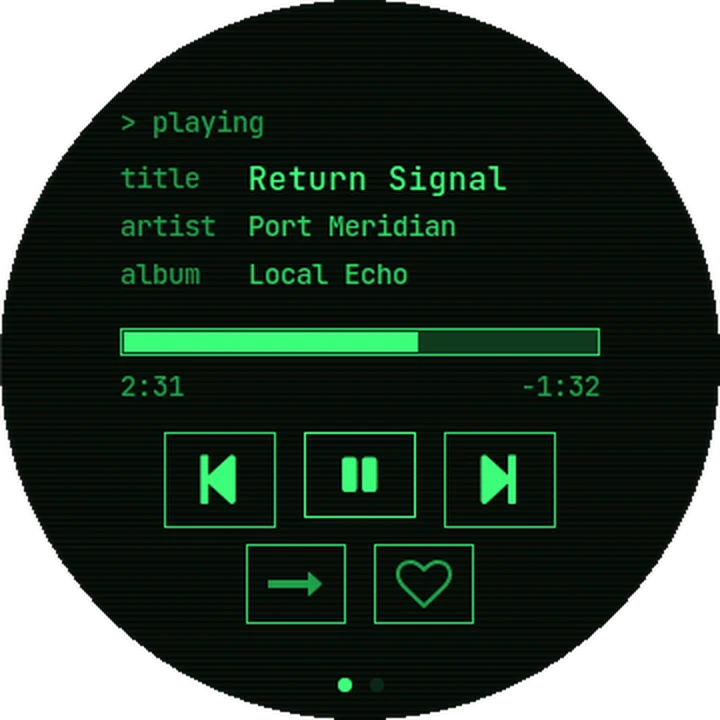
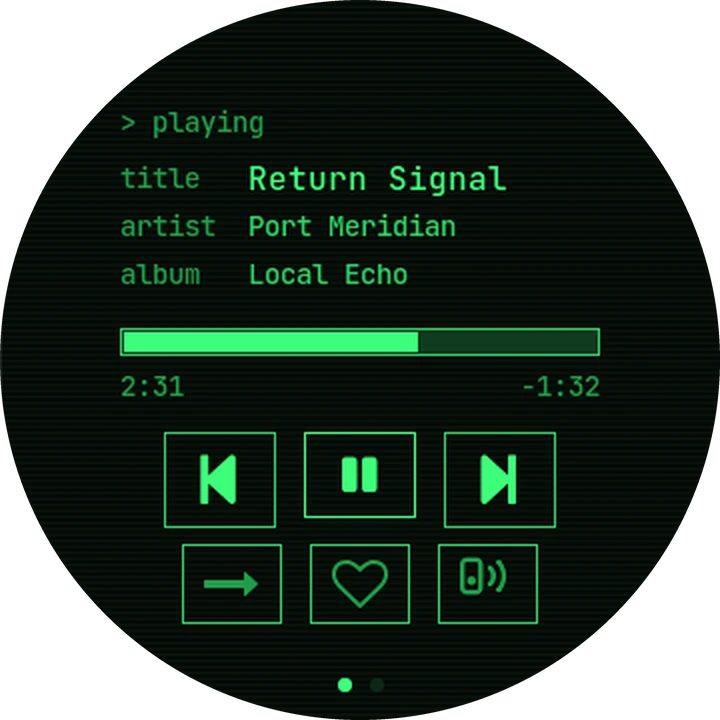
Website: lead with Beam, show it on Now Playing and Quick Settings, add the Beam and AirPlay Receiving tour images and a Ko-fi link

diff --git a/site/index.html b/site/index.html
@@ -4,7 +4,7 @@
 <meta charset="utf-8">
 <meta name="viewport" content="width=device-width, initial-scale=1">
 <title>diskOS - Made round, from the centre out</title>
-<meta name="description" content="diskOS is a free, open-source interface for the FiiO Snowsky Disc, made for its round screen. Eight themes, Cover Flow, timed lyrics, audiobooks, search, and Beam to Cast and AirPlay speakers and TVs.">
+<meta name="description" content="diskOS is a free, open-source interface for the FiiO Snowsky Disc, made for its round screen. Beam your music to Cast and AirPlay speakers and TVs, with eight themes, Cover Flow, timed lyrics, audiobooks and search.">
 <meta name="color-scheme" content="dark">
 <meta name="theme-color" content="#050506">
 <link rel="canonical" href="https://b0hemia.github.io/diskos/">
@@ -12,7 +12,7 @@
 <meta property="og:site_name" content="diskOS">
 <meta property="og:url" content="https://b0hemia.github.io/diskos/">
 <meta property="og:title" content="diskOS - Made round, from the centre out">
-<meta property="og:description" content="A free, open-source interface for the FiiO Snowsky Disc, made for its round screen. Eight themes, Cover Flow, timed lyrics, audiobooks, search, and Beam to Cast and AirPlay speakers and TVs.">
+<meta property="og:description" content="A free, open-source interface for the FiiO Snowsky Disc, made for its round screen. Beam your music to Cast and AirPlay speakers and TVs, with eight themes, Cover Flow, timed lyrics, audiobooks and search.">
 <meta property="og:image" content="https://b0hemia.github.io/diskos/img/og-hero.png">
 <meta property="og:image:width" content="1200">
 <meta property="og:image:height" content="630">
@@ -148,7 +148,7 @@ ONE STORY, FOUR ACTS, ONE LIGHT.
       <div class="copy hero-copy">
         <p class="kicker"><span class="brand">diskOS</span> for the FiiO Snowsky Disc</p>
         <h1 id="hero-title"><span class="ln">Made round,</span> <span class="ln">from the centre out.</span></h1>
-        <p class="lede">A new face for the FiiO Snowsky Disc, made for its round screen. Your music sits in the middle of the circle.</p>
+        <p class="lede">A new face for the FiiO Snowsky Disc, made for its round screen. Your music sits in the middle of the circle, and Beam sends it to the Cast and AirPlay speakers and TVs in your home.</p>
         <div class="actions"><a class="btn" href="https://github.com/b0hemia/diskos#install">Get diskOS</a><a class="link" href="#tracklist">Read the tracklist</a></div>
         <p class="fine">Free and open source. Install from Linux x86-64, macOS on Apple Silicon or Windows 10/11 x64. Flashing takes about 20 minutes. Choose the stock interface for the next boot in Settings &gt; Device &gt; Default UI.</p>
       </div>
@@ -166,55 +166,55 @@ ONE STORY, FOUR ACTS, ONE LIGHT.
         <p class="tl-lede">Each one made for the circle. Scroll, and the disc plays them in order.</p>
       </div>
       <ol class="tracks">
-        <li data-img="home-default-dark"><div class="tr">
-          <span class="no">01</span>
-          <img class="thumb" src="img/home-default-dark.webp" alt="Home in halo: the time, date and weather above the current song, with progress around the now-playing island" width="720" height="720" loading="lazy">
-          <div class="tx"><h3>Home</h3><p>The time, the date and your song, at a glance. In halo, the border around your song fills as it plays.</p></div>
-        </div></li>
-        <li data-img="tour-library"><div class="tr">
-          <span class="no">02</span>
-          <img class="thumb" src="img/tour-library.webp" alt="Library: Songs, Albums, Artists, Genres and Playlists" width="720" height="720" loading="lazy">
-          <div class="tx"><h3>Library</h3><p>A big library, one thumb. Run your finger around the rim to fly through a long list, or tap A-Z and land on the letter you want.</p></div>
-        </div></li>
-        <li data-img="tour-cover-flow"><div class="tr">
-          <span class="no">03</span>
-          <img class="thumb" src="img/tour-cover-flow.webp" alt="Cover Flow with After Hours Test by Caldera Lines in the centre" width="720" height="720" loading="lazy">
-          <div class="tx"><h3>Cover Flow</h3><p>Some albums you know by their cover before you know their name. Flip through the artwork, tap the one in the middle to open it, or hold it to play.</p></div>
-        </div></li>
-        <li data-img="tour-search"><div class="tr">
-          <span class="no">04</span>
-          <img class="thumb" src="img/tour-search.webp" alt="Search: the word Between finds Between Tides by Iona Relay" width="720" height="720" loading="lazy">
-          <div class="tx"><h3>Search</h3><p>Remember one word of the title? Search by song, artist or album from Home or Quick Settings, and play what you find.</p></div>
-        </div></li>
-        <li data-img="np-default-dark"><div class="tr">
-          <span class="no">05</span>
-          <img class="thumb" src="img/np-default-dark.webp" alt="Now Playing in halo: Between Tides by Iona Relay inside the round seek ring" width="720" height="720" loading="lazy">
-          <div class="tx"><h3>Now Playing</h3><p>Playback controls and your place in the song, together on the round screen. Play, pause, skip and seek without leaving the screen.</p></div>
-        </div></li>
-        <li data-img="tour-lyrics-timed"><div class="tr">
-          <span class="no">06</span>
-          <img class="thumb" src="img/tour-lyrics-timed.webp" alt="Timed lyrics with the current line lit" width="720" height="720" loading="lazy">
-          <div class="tx"><h3>Timed lyrics</h3><p>Sing along. Timed lyrics follow the song, and the line you are on lights up. Lyrics beside the song or inside it work offline; missing words can be looked up over Wi-Fi.</p></div>
-        </div></li>
-        <li data-img="feat-book-playing-dark"><div class="tr">
-          <span class="no">07</span>
-          <img class="thumb" src="img/feat-book-playing-dark.webp" alt="An audiobook playing, with buttons to skip back 15 seconds and forward 30" width="720" height="720" loading="lazy">
-          <div class="tx"><h3>Audiobooks</h3><p>.m4b audiobooks get their own home in Library &gt; Books. Jump between chapters and pick up at your saved position.</p></div>
-        </div></li>
-        <li data-img="tour-quick-settings"><div class="tr">
-          <span class="no">08</span>
-          <img class="thumb" src="img/tour-quick-settings.webp" alt="Quick Settings with Wi-Fi, Bluetooth, EQ, Search, Rescan and Source tiles" width="720" height="720" loading="lazy">
-          <div class="tx"><h3>Quick Settings</h3><p>Pull down from the top edge: brightness, Wi-Fi, Bluetooth and EQ, together in one place. Add a Beam tile to send the music to a speaker or TV. Change what you need and get straight back to listening.</p></div>
-        </div></li>
         <li data-img="tour-beam"><div class="tr">
-          <span class="no">09</span>
+          <span class="no">01</span>
           <img class="thumb" src="img/tour-beam.webp" alt="The Beam picker listing a Cast speaker and an AirPlay TV, each tagged with its type" width="720" height="720" loading="lazy">
           <div class="tx"><h3>Beam</h3><p>Send what is playing to a speaker or TV on your Wi-Fi. Pick a Cast or AirPlay device, enter the PIN if the TV asks for one, and the Disc's controls and volume drive that device while it plays.</p></div>
         </div></li>
         <li data-img="tour-airplay-receiving"><div class="tr">
-          <span class="no">10</span>
+          <span class="no">02</span>
           <img class="thumb" src="img/tour-airplay-receiving.webp" alt="AirPlay Receiving: the track, artist and cover sent from an iPhone, shown on the round screen" width="720" height="720" loading="lazy">
           <div class="tx"><h3>AirPlay Receiving</h3><p>Choose AirPlay Receiving as a source, then pick the Disc from your iPhone or Mac. The track, artist and cover appear on the round screen. On firmware V2.40 and V2.57.</p></div>
+        </div></li>
+        <li data-img="home-default-dark"><div class="tr">
+          <span class="no">03</span>
+          <img class="thumb" src="img/home-default-dark.webp" alt="Home in halo: the time, date and weather above the current song, with progress around the now-playing island" width="720" height="720" loading="lazy">
+          <div class="tx"><h3>Home</h3><p>The time, the date and your song, at a glance. In halo, the border around your song fills as it plays.</p></div>
+        </div></li>
+        <li data-img="tour-library"><div class="tr">
+          <span class="no">04</span>
+          <img class="thumb" src="img/tour-library.webp" alt="Library: Songs, Albums, Artists, Genres and Playlists" width="720" height="720" loading="lazy">
+          <div class="tx"><h3>Library</h3><p>A big library, one thumb. Run your finger around the rim to fly through a long list, or tap A-Z and land on the letter you want.</p></div>
+        </div></li>
+        <li data-img="tour-cover-flow"><div class="tr">
+          <span class="no">05</span>
+          <img class="thumb" src="img/tour-cover-flow.webp" alt="Cover Flow with After Hours Test by Caldera Lines in the centre" width="720" height="720" loading="lazy">
+          <div class="tx"><h3>Cover Flow</h3><p>Some albums you know by their cover before you know their name. Flip through the artwork, tap the one in the middle to open it, or hold it to play.</p></div>
+        </div></li>
+        <li data-img="tour-search"><div class="tr">
+          <span class="no">06</span>
+          <img class="thumb" src="img/tour-search.webp" alt="Search: the word Between finds Between Tides by Iona Relay" width="720" height="720" loading="lazy">
+          <div class="tx"><h3>Search</h3><p>Remember one word of the title? Search by song, artist or album from Home or Quick Settings, and play what you find.</p></div>
+        </div></li>
+        <li data-img="np-default-dark"><div class="tr">
+          <span class="no">07</span>
+          <img class="thumb" src="img/np-default-dark.webp" alt="Now Playing in halo: Between Tides by Iona Relay inside the round seek ring" width="720" height="720" loading="lazy">
+          <div class="tx"><h3>Now Playing</h3><p>Playback controls and your place in the song, together on the round screen. Play, pause, skip and seek without leaving the screen.</p></div>
+        </div></li>
+        <li data-img="tour-lyrics-timed"><div class="tr">
+          <span class="no">08</span>
+          <img class="thumb" src="img/tour-lyrics-timed.webp" alt="Timed lyrics with the current line lit" width="720" height="720" loading="lazy">
+          <div class="tx"><h3>Timed lyrics</h3><p>Sing along. Timed lyrics follow the song, and the line you are on lights up. Lyrics beside the song or inside it work offline; missing words can be looked up over Wi-Fi.</p></div>
+        </div></li>
+        <li data-img="feat-book-playing-dark"><div class="tr">
+          <span class="no">09</span>
+          <img class="thumb" src="img/feat-book-playing-dark.webp" alt="An audiobook playing, with buttons to skip back 15 seconds and forward 30" width="720" height="720" loading="lazy">
+          <div class="tx"><h3>Audiobooks</h3><p>.m4b audiobooks get their own home in Library &gt; Books. Jump between chapters and pick up at your saved position.</p></div>
+        </div></li>
+        <li data-img="tour-quick-settings"><div class="tr">
+          <span class="no">10</span>
+          <img class="thumb" src="img/tour-quick-settings.webp" alt="Quick Settings with Wi-Fi, Bluetooth, EQ, Search and Source tiles, and a lit Beam tile showing Bedroom TV" width="720" height="720" loading="lazy">
+          <div class="tx"><h3>Quick Settings</h3><p>Pull down from the top edge: brightness, Wi-Fi, Bluetooth and EQ, together in one place. Add a Beam tile to send the music to a speaker or TV. Change what you need and get straight back to listening.</p></div>
         </div></li>
       </ol>
       <p class="copy also">Also on the record: Last.fm scrobbling, playlists with M3U import and export, Up Next, Song Info, a sleep timer, your own picture or animated GIF as the screensaver, editable Disc and Bluetooth names, and signed app updates over Wi-Fi with an optional update check. Swipe up from the bottom edge of the screen to go straight Home. Local playback uses the Disc's stock audio engine. Beam plays through the selected receiver.</p>
@@ -309,6 +309,7 @@ ONE STORY, FOUR ACTS, ONE LIGHT.
     <a class="link" href="https://github.com/b0hemia/diskos">Source</a>
     <a class="link" href="https://github.com/b0hemia/diskos/releases/latest">Latest release</a>
     <a class="link" href="https://github.com/b0hemia/diskos/issues">Report a problem</a>
+    <a class="link" href="https://ko-fi.com/b0hemia">Support on Ko-fi</a>
   </nav>
 </footer>
 </body>
